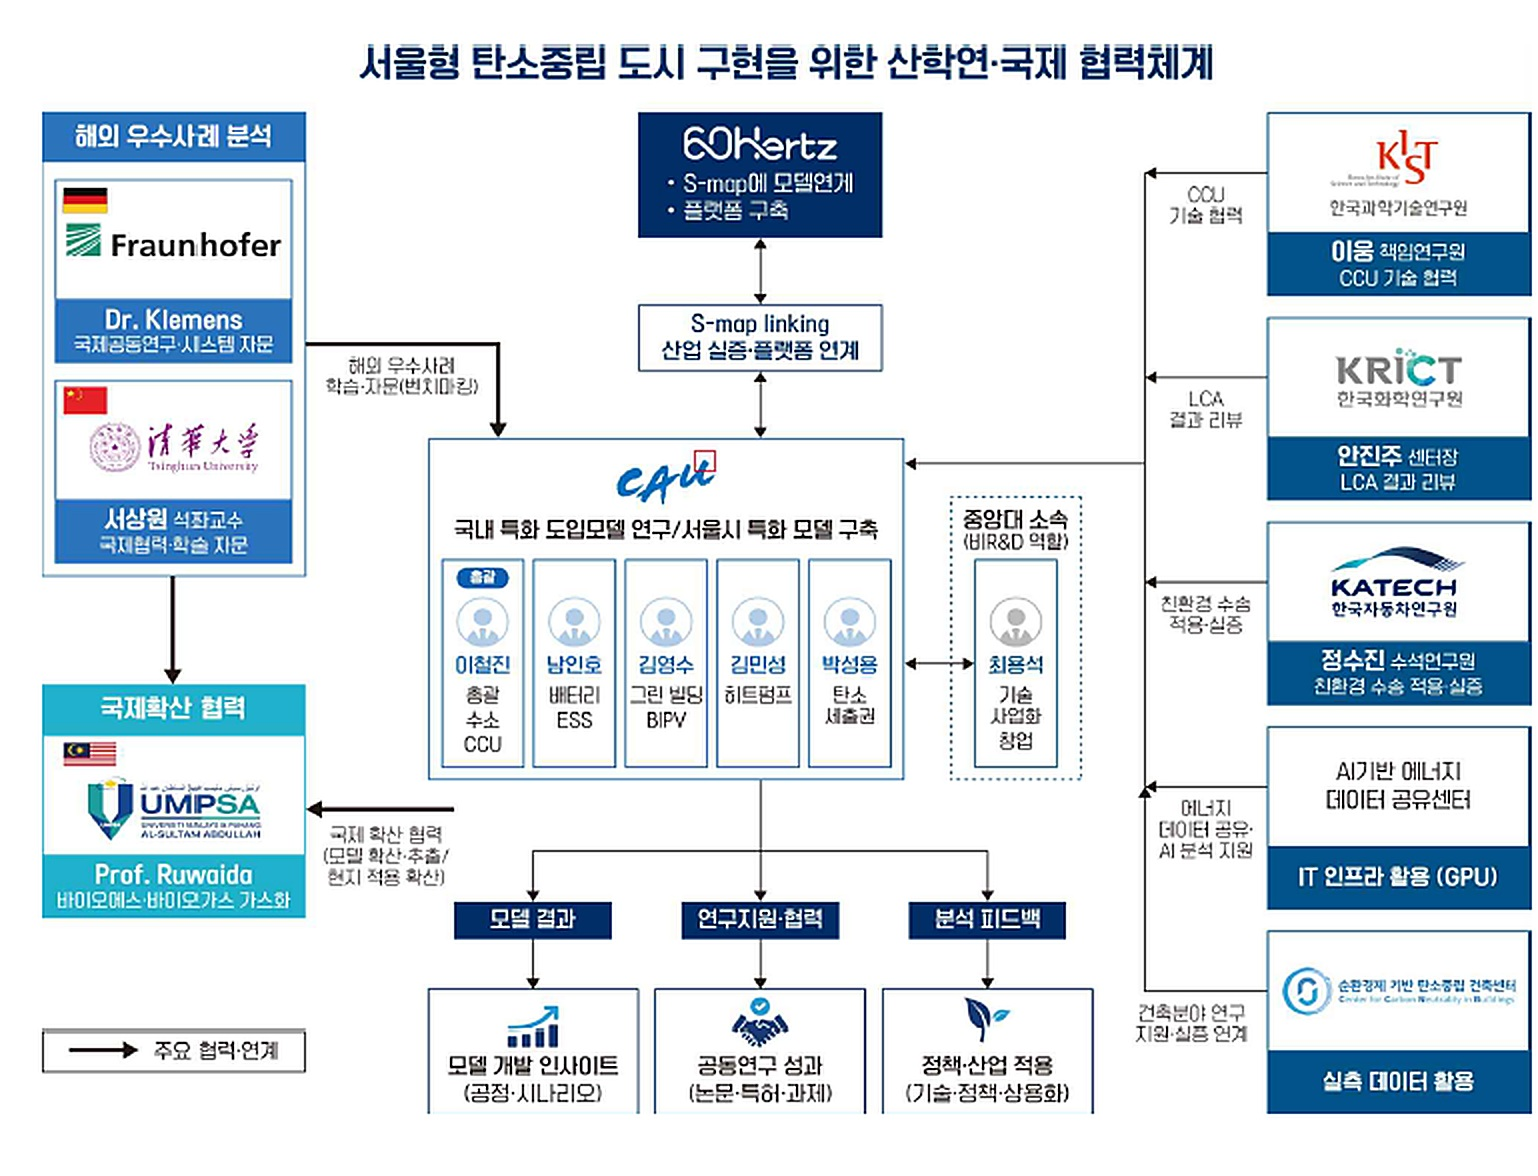
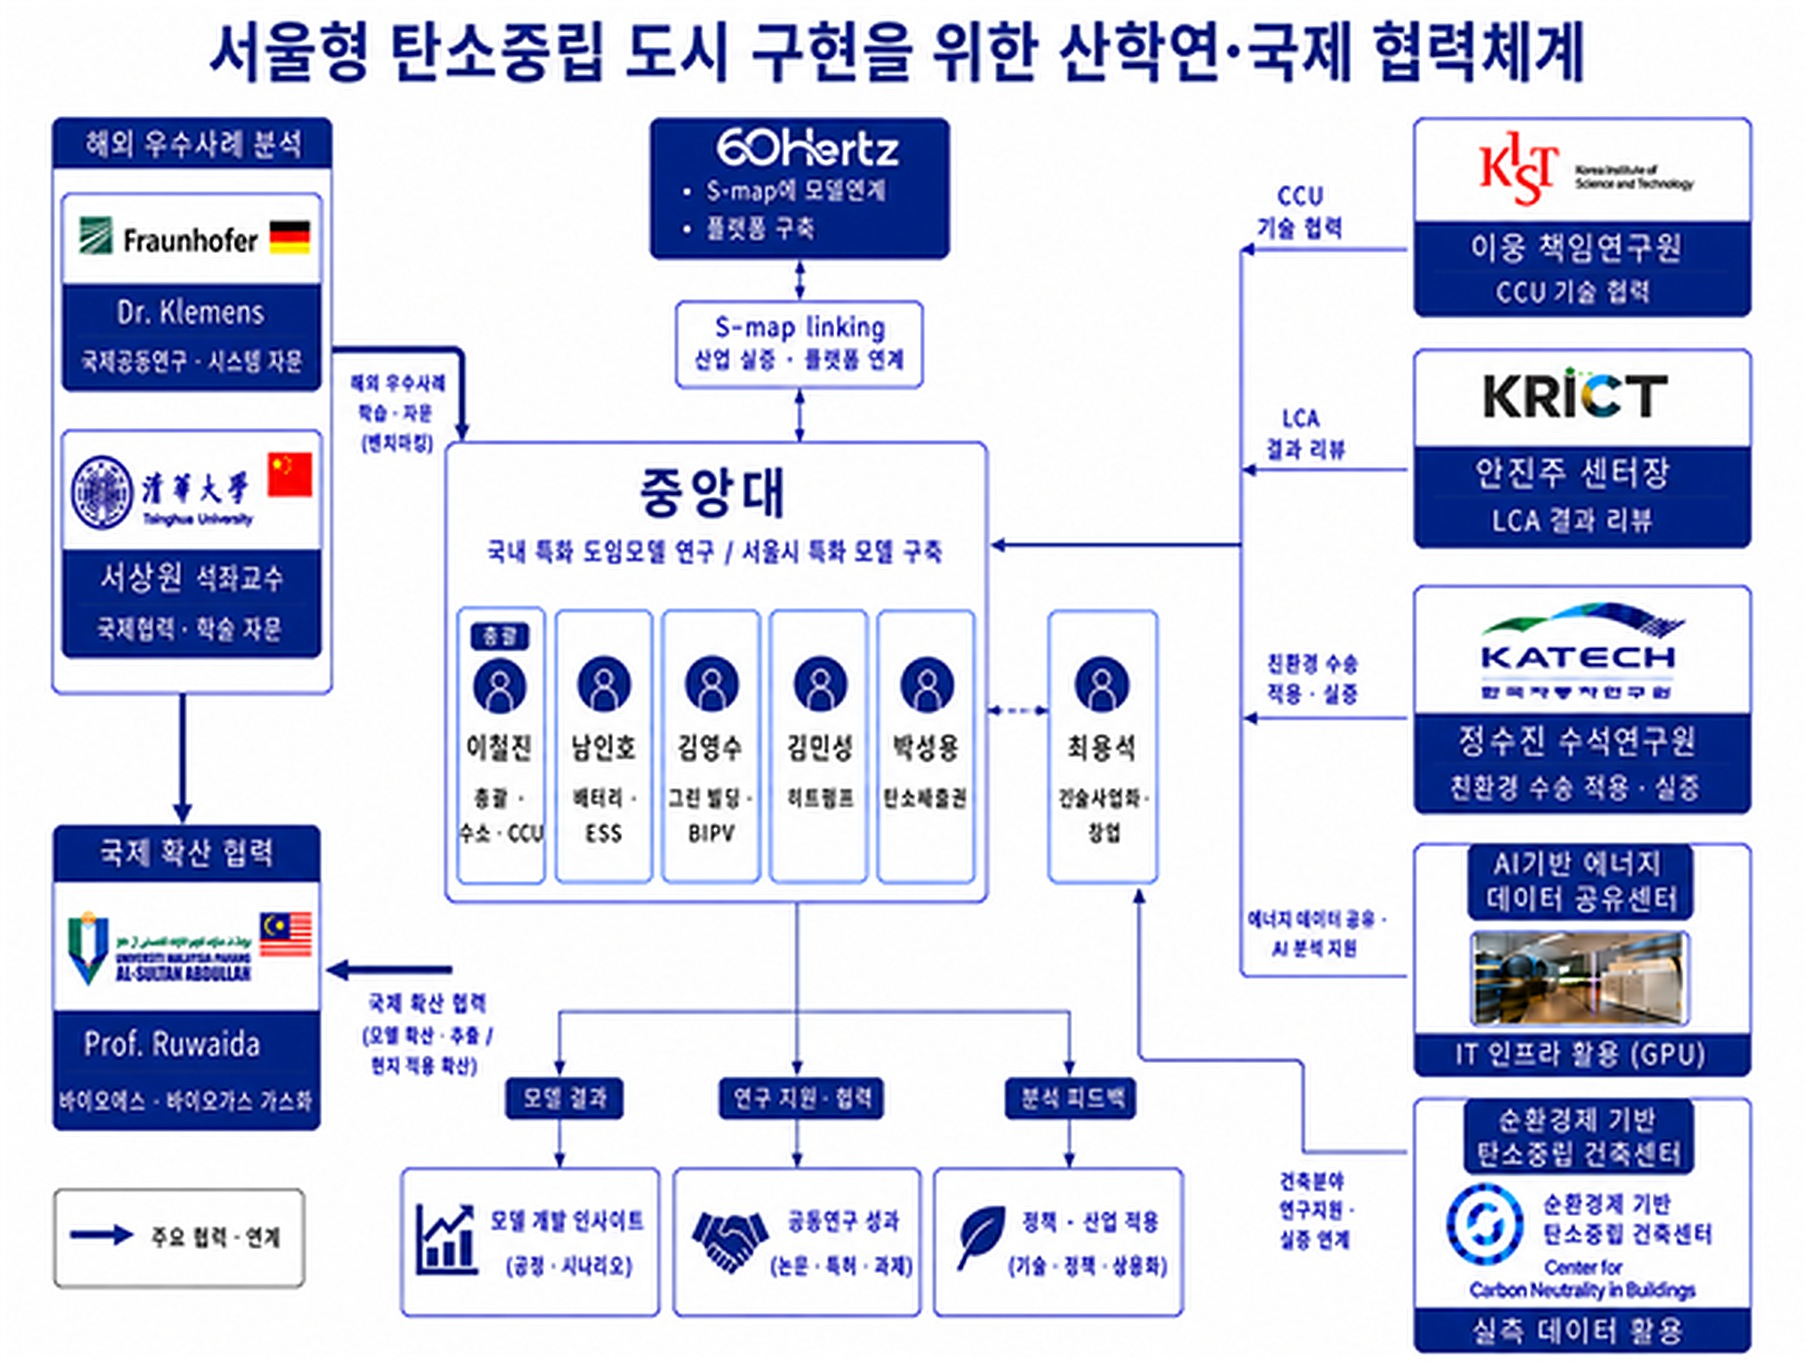
Project popup: swipe through all project images; new overview image; fix overlaps
- Project popup shows its images in the same one-at-a-time slider.
- Seoul ANCHOR 10 Challenge main image replaced (upscaled 3x).
- Images no longer overflow onto the text in full-screen popups, and
  the close/expand buttons stay above the slider.

Claude-Session: https://claude.ai/code/session_01T3TDEukZmisxTHeHCcE4YE

diff --git a/index.html b/index.html
@@ -238,6 +238,7 @@ p{max-width:68ch}
   .modal-body{padding:28px 40px 36px}.modal-body h3{font-size:26px}.modal-body dl{grid-template-columns:120px 1fr;font-size:16px}.modal-body .pdesc,.modal-body .ptext,.modal-body .sum{font-size:16.5px}
   .gal{grid-template-columns:repeat(auto-fill,minmax(320px,1fr));padding:12px}}
 @media (min-width:768px){.modal-box .img{aspect-ratio:auto;height:min(58vh,560px)}.modal-box.max .img{height:70vh}}
+.modal-box .img.has{display:flex;align-items:center;justify-content:center;overflow:hidden}.modal-box .img.has img{width:auto;height:auto;max-width:100%;max-height:100%}
 .modal-box.max{width:100vw!important;height:100vh!important;height:100dvh!important;max-width:none;max-height:none;border-radius:0;resize:none}
 .modal:has(.modal-box.max){padding:0}
 .pm-gal{grid-template-columns:1fr!important;padding:0 28px 28px!important}.pm-gal img{background:#fff;border:1px solid var(--line)}
@@ -250,7 +251,7 @@ p{max-width:68ch}
 .modal-body dt{color:var(--muted)}
 .modal-body dd{margin:0}
 .modal-body .todo{color:var(--muted);font-style:italic}
-.modal-close{position:sticky;top:0;float:right;margin:12px;width:36px;height:36px;border-radius:50%;border:1px solid var(--line);background:var(--surface);color:var(--ink);font-size:18px;cursor:pointer}
+.modal-close{position:sticky;z-index:5;top:0;float:right;margin:12px;width:36px;height:36px;border-radius:50%;border:1px solid var(--line);background:var(--surface);color:var(--ink);font-size:18px;cursor:pointer}
 .car-count{margin-left:auto;font-family:var(--mono);font-size:13px;color:var(--muted);font-variant-numeric:tabular-nums}
 
 /* Publications */
@@ -341,7 +342,7 @@ p{max-width:68ch}
 @media (max-width:560px){.award{grid-template-columns:88px 1fr;gap:12px}}
 .igs{position:relative;background:#f1f2f3}
 .igs-track{display:flex;overflow-x:auto;scroll-snap-type:x mandatory;scrollbar-width:none;overscroll-behavior-x:contain}.igs-track::-webkit-scrollbar{display:none}
-.igs-s{flex:0 0 100%;scroll-snap-align:center;height:min(68vh,640px);display:grid;place-items:center}
+.igs-s{flex:0 0 100%;scroll-snap-align:center;height:min(68vh,640px);display:flex;align-items:center;justify-content:center;overflow:hidden}
 .igs-s img{max-width:100%;max-height:100%;object-fit:contain;display:block;cursor:zoom-in}
 .igs-b{position:absolute;top:50%;transform:translateY(-50%);width:40px;height:40px;border-radius:50%;border:0;background:rgba(255,255,255,.92);color:#123;font-size:22px;line-height:1;cursor:pointer;box-shadow:0 2px 10px rgba(0,0,0,.2)}
 .igs-p{left:12px}.igs-n{right:12px}.igs-b[hidden]{display:none}
@@ -774,7 +775,8 @@ function route(){
       track.classList.remove("dragging");go(Math.abs(dx)>60?start+(dx<0?1:-1):start);});
     /* 클릭(또는 탭)하면 과제 정보 */
     const open=i=>{const t=SITE.projects[i];
-      openModal(`${SITE.projectImgs?.[i]?`<div class="img has"><img src="${SITE.projectImgs[i]}" alt=""></div>`:`<div class="img">${T("Project image (to be replaced)","과제 이미지 (원본으로 교체 예정)")}</div>`}<div class="modal-body"><h3 id="mTitle">${esc(t)}</h3>${(f=>`<dl><dt>${T("Funded by","지원 기관")}</dt><dd>${f?esc(pFunder(f))+(f.amount?` (${esc(LANG==="ko"?KO.projects.amounts[f.amount]||f.amount:f.amount)})`:""):todo()}</dd><dt>${T("Period","기간")}</dt><dd>${f?esc(f.period):todo()}</dd>${f?.no?`<dt>${T("Project No.","과제 번호")}</dt><dd>${esc(f.no)}</dd>`:""}<dt>${T("Description","과제 설명")}</dt><dd class="pdesc">${f?.desc?esc(f.desc):todo()}</dd></dl>`)(SITE.projectInfo?.[i])}</div>${(SITE.projectMore?.[i]||[]).length?`<div class="gal pm-gal">${SITE.projectMore[i].map((u,j)=>`<img src="${u}" alt="" data-i="${j}" loading="lazy">`).join("")}</div>`:""}`);$mc._full=SITE.projectMore?.[i]||null;};
+      const pimgs=[SITE.projectImgs?.[i],...(SITE.projectMore?.[i]||[])].filter(Boolean);
+      openModal(`${pimgs.length?galHTML(pimgs):`<div class="img">${T("Project image (to be replaced)","과제 이미지 (원본으로 교체 예정)")}</div>`}<div class="modal-body"><h3 id="mTitle">${esc(t)}</h3>${(f=>`<dl><dt>${T("Funded by","지원 기관")}</dt><dd>${f?esc(pFunder(f))+(f.amount?` (${esc(LANG==="ko"?KO.projects.amounts[f.amount]||f.amount:f.amount)})`:""):todo()}</dd><dt>${T("Period","기간")}</dt><dd>${f?esc(f.period):todo()}</dd>${f?.no?`<dt>${T("Project No.","과제 번호")}</dt><dd>${esc(f.no)}</dd>`:""}<dt>${T("Description","과제 설명")}</dt><dd class="pdesc">${f?.desc?esc(f.desc):todo()}</dd></dl>`)(SITE.projectInfo?.[i])}</div>`);$mc._full=pimgs;};
     track.addEventListener("click",e=>{if(moved){moved=false;return;}const s=e.target.closest(".slide");if(s)open(+s.dataset.i);});
     track.addEventListener("keydown",e=>{if(e.key==="Enter"){e.preventDefault();open(cur())}});
     const plist=document.getElementById("projList");
